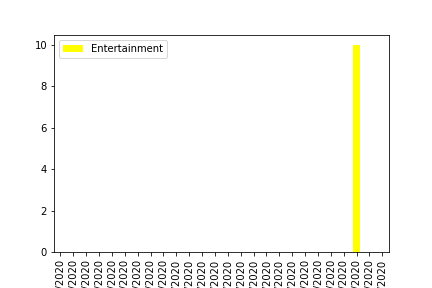
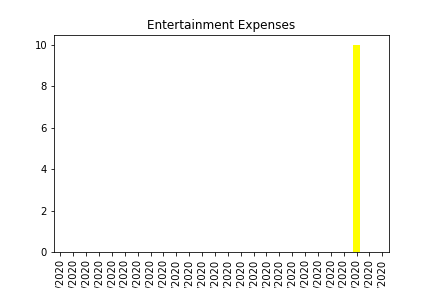
redirected text output to a file

Changed region(s): [[0.1204, 0.0625, 0.6921, 0.2188]]

diff --git a/Statistical_Analysis.py b/Statistical_Analysis.py
@@ -13,7 +13,6 @@ import os
 import numpy as np
 import pandas as pd
 import matplotlib.pyplot as plt
-from io import StringIO
 import seaborn as sns
 
 
@@ -34,32 +33,32 @@ values = df.values
 #To get correct column string names
 columns
 
-plot = df.plot('Date', 'Total', kind = 'bar')
+plot = df.plot('Date', 'Total',  kind = 'line',marker = 'o', title ='Total Spending', legend = False)
 fig = plot.get_figure()
 fig.savefig("figures/TotalSpendingByDate.png")
 
-plot = df.plot('Date', 'Groceries', kind = 'bar')
+plot = df.plot('Date', 'Groceries', kind = 'line',marker = 'o',title ='Grocery Expenses', legend = False)
 fig = plot.get_figure()
 fig.savefig("figures/GroceriesSpending.png")
 
-plot = df.plot('Date', 'Transport', kind = 'line',marker = 'o')
+plot = df.plot('Date', 'Transport',color='orange', kind = 'bar', title ='transport Expenses', legend = False)
 fig = plot.get_figure()
 fig.savefig("figures/Transport.png")
 
-plot = df.plot('Date', 'Take_Out', kind = 'bar', color='green')
+plot = df.plot('Date', 'Take_Out', kind = 'bar', color='green', title ='Take Out Expenses', legend = False)
 fig = plot.get_figure()
 fig.savefig("figures/Take_out.png")
 
-plot = df.plot('Date', 'Medical', kind = 'bar', color='red')
+plot = df.plot('Date', 'Medical', kind = 'bar', color='red',title ='Medical Expenses', legend = False)
 fig = plot.get_figure()
 fig.savefig("figures/Medical.png")
 
 
-plot = df.plot('Date', 'Entertainment', kind = 'bar', color='yellow')
+plot = df.plot('Date', 'Entertainment', kind = 'bar', color='yellow',title ='Entertainment Expenses', legend = False)
 fig = plot.get_figure()
 fig.savefig("figures/Entertainment.png")
 
-plot = df.plot('Date', 'Other', kind = 'bar', color='black')
+plot = df.plot('Date', 'Other', kind = 'bar', color='black',title ='Misc. Expenses', legend = False)
 fig = plot.get_figure()
 fig.savefig("figures/Other.png")
 
@@ -69,12 +68,15 @@ Total = df['Total']
 def goThru():
     a = list(df)
     totals = 0
-    for totals in a[1:9]:
-        getInfo(totals)
-
-
+    stringText = ""
+    for totals in a[1:9]:        
+        stringText +=getInfo(totals)
+    return stringText    
+        
+fileText = "Begin"
 def getInfo(colName):
     #To get information from dataframe
+    stri = "Begin"
     sum = df[colName].sum()
     mean = df[colName].mean()
     median = df[colName].median()
@@ -82,10 +84,22 @@ def getInfo(colName):
     sum = round(sum, 2)
     mean = round(mean, 2)
     median = round(median, 2)
-    print("Total amount spent in the period on "  + colName+ ": $" + str(sum))
-    print("Average amount spent per day on "  + colName+ ": $" + str(mean))
-    print("Most spent in a single day on "  + colName+ ": $"+ str(maximum))   
-goThru()
+    stri = str("Total amount spent in the period on "  + colName+ ": $" + str(sum))
+    stri2 = str("Average amount spent per day on "  + colName+ ": $" + str(mean))
+    stri3 = str("Most spent in a single day on "  + colName+ ": $"+ str(maximum))   
+    stri += "\n"
+    stri += (stri2)
+    stri += "\n"
+    stri += stri3
+    stri += "\n"
+    stri += "\n"
+    stri += "\n"
+    #print(stri)
+    return stri
+
+
+
+
 
 # In[4]:
 def printOnce():
@@ -148,6 +162,21 @@ def countValuesInColumn(colName, days):
 
 
 
+
+file1 = open("Statistical Results.txt","w") 
+firstDay = df['Date'].head(1)
+firstDay = firstDay[0]
+lastDay =df['Date'].iloc[-1]
+#lastDay = lastDay[0]
+
+
+fileText = "From " + str(firstDay) + " until " + str(lastDay)+ "\n"
+fileText += "there were " + str(getTotalDays()) + " days which purchases were made\n"
+fileText += goThru()
+file1.write(fileText)
+file1.close() 
+
+
 # In[15]:
 
 
@@ -172,9 +201,6 @@ def iterateThruByColumn():
     for totals in a[1:8]:
         countValuesInColumn(totals, days)
 iterateThruByColumn()
-
-
-
 
 
 # In[13]:
